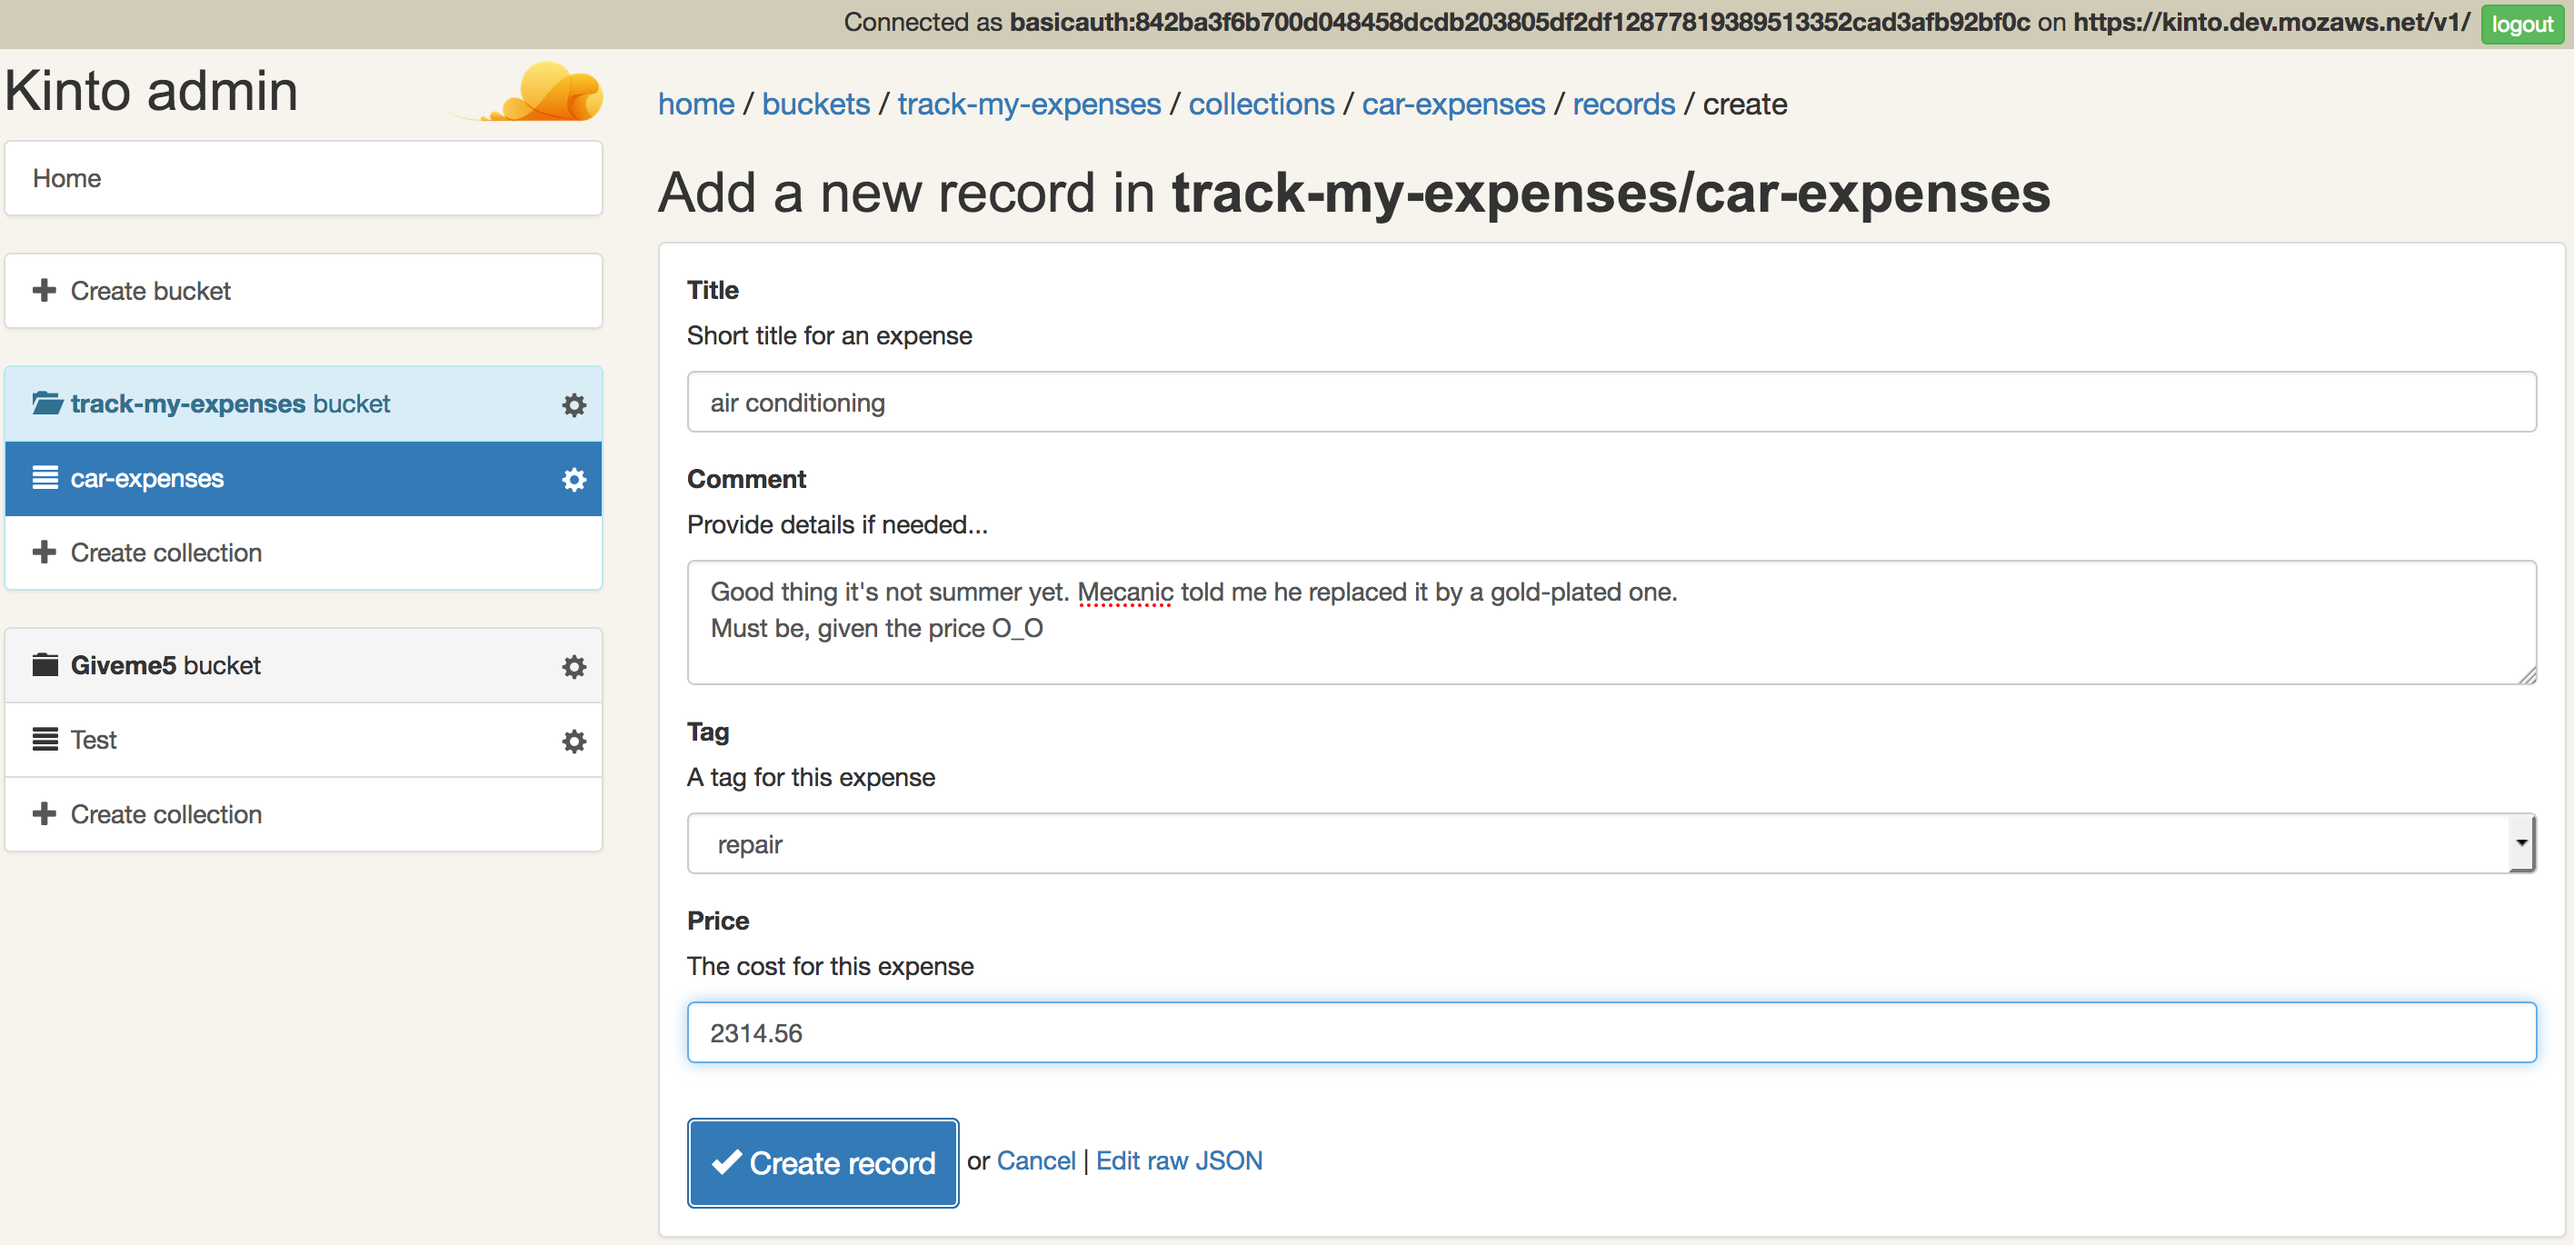
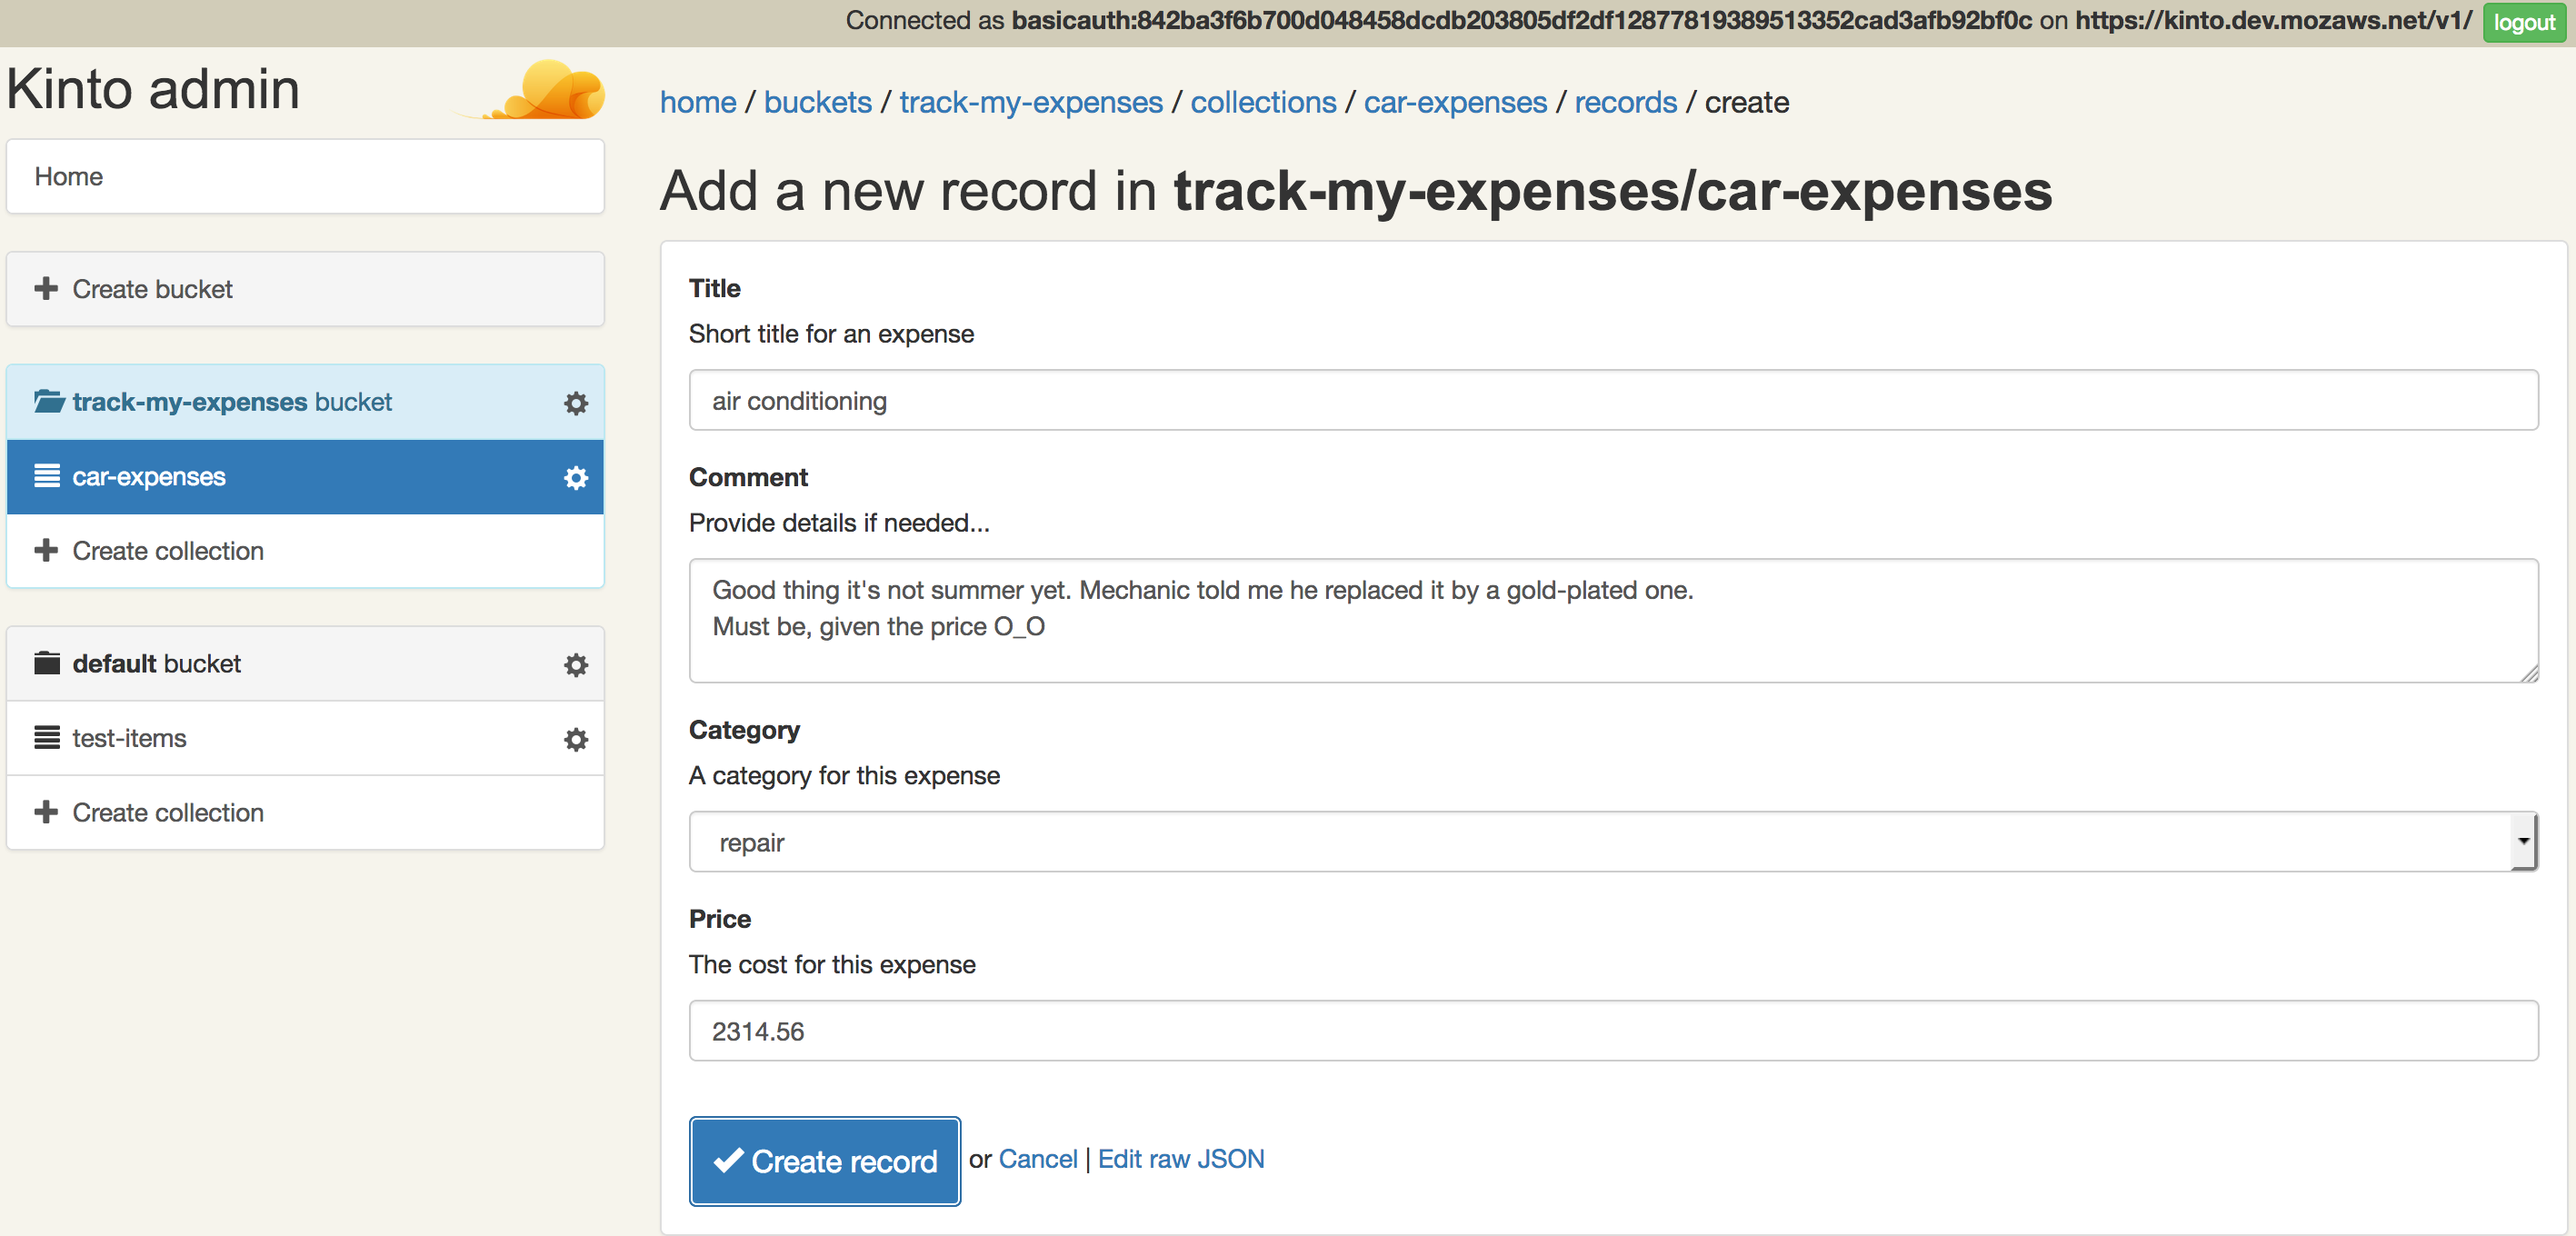
Address @natim comments

diff --git a/content/2016.12.prototyping-an-app-with-kinto.md b/content/2016.12.prototyping-an-app-with-kinto.md
@@ -6,7 +6,7 @@ Slug: prototyping-an-app-with-kinto
 Summary: Prototyping an app with Kinto and the admin.
 
 I own a car. And it costs a lot. But how much exactly is difficult to know, because the costs are spread between maintenance, repairs, fuel, insurance...
-What if I could store each expense right on the spot, tag it, and maybe add a description? That would be tremendously helpful, right?
+What if I could store each expense right on the spot, categorize it, and maybe add a description? That would be tremendously helpful, right?
 
 In order to build something like that, I'd normally have to fire up a django project, maybe use django-rest-framework to have a proper REST API for the future web or mobile application. Then choose a database like postgresql and configure it.
 
@@ -18,7 +18,7 @@ Let's first think about the data model:
 
 * title: a string
 * comment: a multiline string
-* tag: a string taken from a list of choices
+* category: a string taken from a list of choices
 * price: a float
 
 And then how to store entries in Kinto:
@@ -73,11 +73,11 @@ Following our data model, here's what the JSON schema should look like:
       "title": "Comment",
       "description": "Provide details if needed..."
     },
-    "tag": {
+    "category": {
       "type": "string",
       "enum": ["fuel", "repair", "insurance", "maintenance", "equipment"],
-      "title": "Tag",
-      "description": "A tag for this expense"
+      "title": "Category",
+      "description": "A category for this expense"
     },
     "price": {
       "type": "number",
@@ -88,7 +88,7 @@ Following our data model, here's what the JSON schema should look like:
 }
 ```
 
-Note the `enum` attribute on the tag field which will be rendered in the forms as a select, instead of a simple input text field.
+Note the `enum` attribute on the category field which will be rendered in the forms as a select, instead of a simple input text field.
 
 *Tip:* You can use the [form builder] to build your form visually, and then copy the JSON schema to the admin!
 
@@ -103,7 +103,7 @@ Adding a [UI schema] will improve the way the admin will display our data, and t
   "ui:order": [
     "title",
     "comment",
-    "tag",
+    "category",
     "price"
   ],
   "comment": {
@@ -118,7 +118,7 @@ Nearly done! Just before submitting this new collection, let's configure the col
 
 ## Final touches
 
-By default, the admin will only display one column in the record list page. It would be much more convenient to display the `tag` and `price` on top of the `title`:
+By default, the admin will only display one column in the record list page. It would be much more convenient to display the `category` and `price` on top of the `title`:
 
 ![kinto-admin-records-list-columns]({filename}/images/kinto-admin-records-list-columns.png)
 
